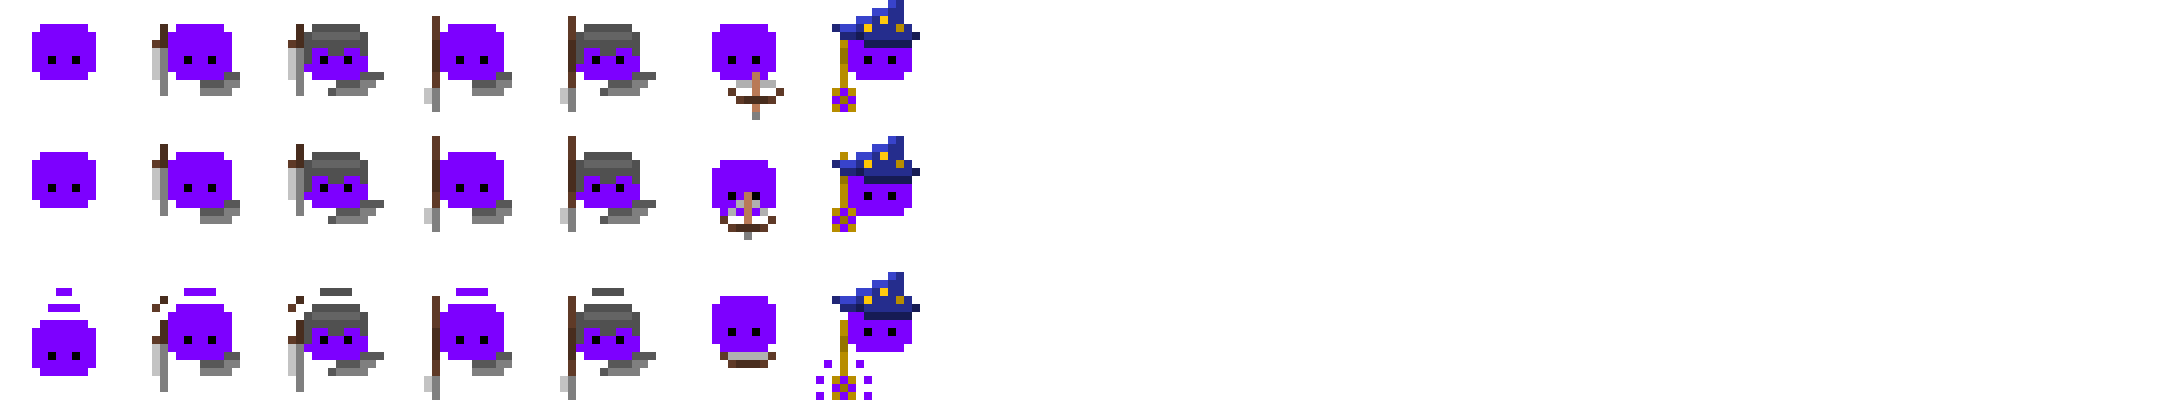
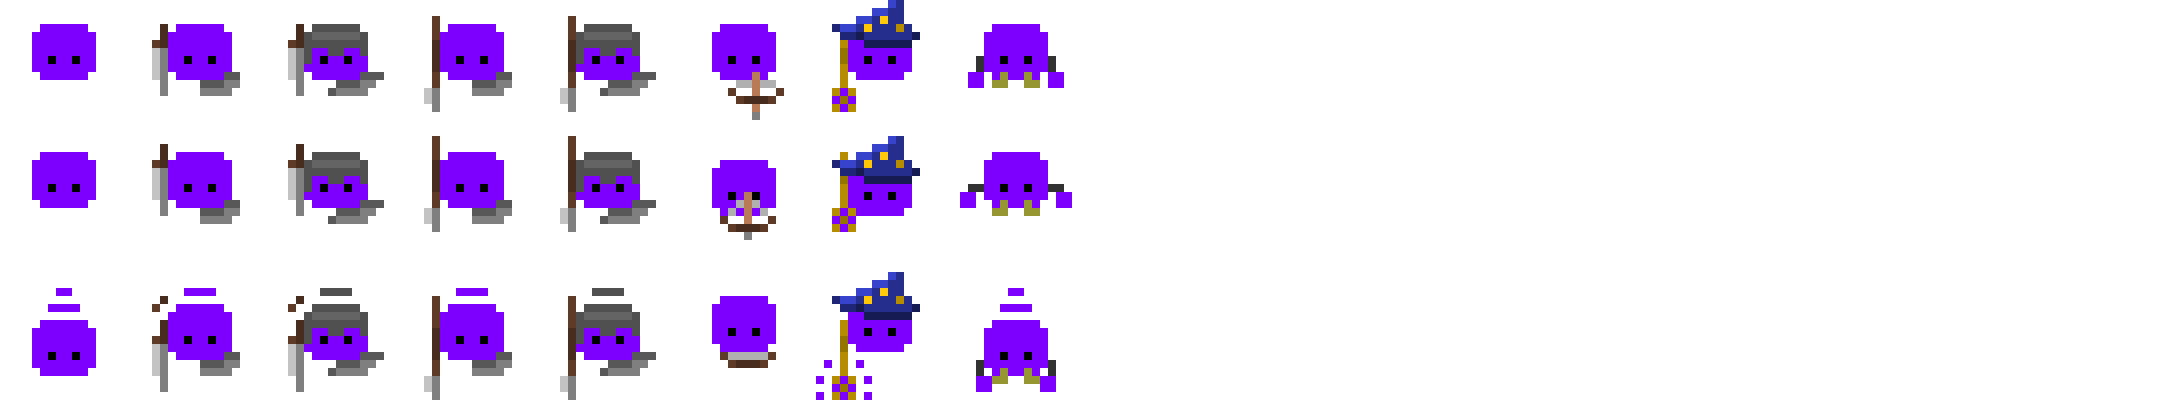
+

Changed region(s): [[0.4327, 0.72, 0.4945, 0.99], [0.4327, 0.06, 0.4945, 0.24], [0.4327, 0.36, 0.4945, 0.54]]

diff --git a/js/mock.js b/js/mock.js
@@ -6,18 +6,16 @@ const COLORS = [
 const UNIT_TYPES = [
     MilitiaWarrior, SwordsmanWarrior, HeavySwordsmanWarrior,
     SpearmanWarrior, HeavySpearmanWarrior, ArcherWarrior, 
-    WizardWarrior
+    WizardWarrior, BruteWarrior
 ];
 
 
-function getRandomTeam(color, nofMembers) {
+function getRandomTeam(color, nofMembers, rootX, rootY) {
     let t = new Team(color);
-    let rootX = Gmt.randFloat(300, 900);
-    let rootY = Gmt.randFloat(300, 600);
     Gmt.iter1D(nofMembers, i => {
         let c = Gmt.choice(UNIT_TYPES);
         let w = new c();
-        w.placeAt(rootX + Gmt.randFloat(-200, 200), rootY + Gmt.randFloat(-200, 200));
+        w.placeAt(rootX + Gmt.randFloat(-200, 200), rootY + Gmt.randFloat(-400, 400));
         w.turnTo(Gmt.rad(Gmt.randFloat(0, 2)));
         t.warriors.push(w);
     });
@@ -25,8 +23,8 @@ function getRandomTeam(color, nofMembers) {
 } 
 
 function getTeams() {
-    let nofTeams = Gmt.randInt(2, 5);
-    let nofMembers = parseInt(150/nofTeams);
+    let nofTeams = Gmt.randInt(2, 2);
+    let nofMembers = parseInt(100/nofTeams);
     let colors = [];
     while(colors.length < nofTeams) {
         let c = Gmt.choice(COLORS);
@@ -34,5 +32,5 @@ function getTeams() {
             colors.push(c);
         }
     }
-    return Gmt.constructArray(nofTeams, i => getRandomTeam(colors[i], nofMembers + Gmt.randInt(-2, 2)));
+    return Gmt.constructArray(nofTeams, i => getRandomTeam(colors[i], nofMembers, Gmt.randFloat(200, 1400), 400));
 }

diff --git a/js/src/warriors/units/wizard.js b/js/src/warriors/units/wizard.js
@@ -2,15 +2,15 @@ const WizardWarriorSTATS = {
     maxHp: 15,
     armor: 0,
     spriteRow: 6,
-    displaySize: DEFAULT.UNIT_SPRITE_SIZE,
+    displaySize: DEFAULT.UNIT_SPRITE_SIZE * 0.8,
     attackWindup: 500,
     attackWinddown: 800,
     attackCooldown: 3500, 
     minAttack: 5,
     maxAttack: 10,
-    collisonSize: DEFAULT.UNIT_COLLISION_SIZE,
+    collisonSize: DEFAULT.UNIT_COLLISION_SIZE * 0.8,
     speed: DEFAULT.UNIT_SPEED * 1, 
-    range: DEFAULT.UNIT_RANGED_RANGE, 
+    range: DEFAULT.UNIT_RANGED_RANGE * 0.7, 
     accuracy: 0.95,
     projectileClass: null
 };

diff --git a/js/src/warriors/units/brute.js b/js/src/warriors/units/brute.js
@@ -1,0 +1,20 @@
+const BruteWarriorSTATS = {
+    maxHp: 100,
+    armor: 5,
+    spriteRow: 7,
+    displaySize: DEFAULT.UNIT_SPRITE_SIZE * 2,
+    attackWindup: 600,
+    attackWinddown: 800,
+    attackCooldown: 3000, 
+    minAttack: 15,
+    maxAttack: 21,
+    collisonSize: DEFAULT.UNIT_COLLISION_SIZE * 2,
+    speed: DEFAULT.UNIT_SPEED * 0.7, 
+    range: DEFAULT.UNIT_MELEE_RANGE * 1.5
+};
+
+class BruteWarrior extends MeleeWarrior {
+    constructor() {
+        super(BruteWarriorSTATS);
+    }
+}

diff --git a/index.html b/index.html
@@ -24,6 +24,7 @@
         <script src="js/src/warriors/units/heavySpearman.js"></script>
         <script src="js/src/warriors/units/archer.js"></script>
         <script src="js/src/warriors/units/wizard.js"></script>
+        <script src="js/src/warriors/units/brute.js"></script>
         <script src="js/src/team.js"></script>
         <!-- MOCK -->
         <script src='js/mock.js'></script>
